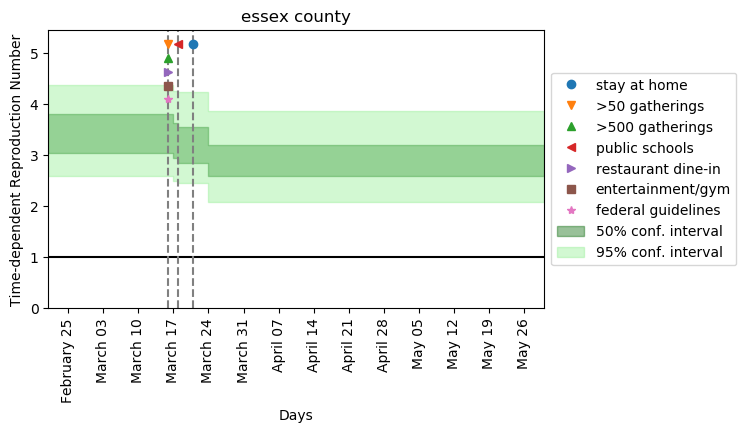
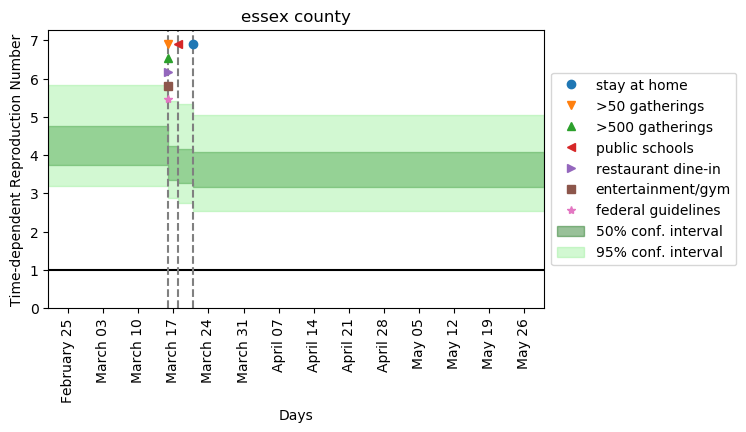
updated start dates and fips list; uploaded new plots where interventions are aligned

diff --git a/scripts/plot_rt.py b/scripts/plot_rt.py
@@ -199,6 +199,7 @@ def get_interventions_europe(interventions_file):
     return countries, date_cols, mod_interventions
 
 
+# copied from data_parser
 def get_interventions_US(interventions_file, num_counties=100):
 
     interventions = pd.read_csv(interventions_file)
@@ -210,8 +211,9 @@ def get_interventions_US(interventions_file, num_counties=100):
     for col in int_cols: ### convert date from given format
         interventions[col] = interventions[col].apply(lambda x: dt.date.fromordinal(int(x)))
 
-    fips = [36061, 36119, 36059, 36103, 17031, 26163, 36087, 34003, 53033, 6037, 22071, 36071, 9001, 34013, 12086,
-            26125, 25017, 34017, 25025, 34023]
+    # this needs to be updated if any changes are made to the data parser
+    fips = [36061, 36119, 36059, 36103, 17031, 26163, 6037, 34003, 36087, 53033, 22071, 34013, 12086, 9001, 26125,
+            34017, 36071, 42101, 34039, 25025]
 
     interventions_list = list(interventions.columns.values)[3:]
 
@@ -221,22 +223,24 @@ def get_interventions_US(interventions_file, num_counties=100):
 if __name__ == '__main__':
 
     ### EUROPE ###
-    # simulation_file = r'results\europe_summary.csv'
-    # interventions_file = r'data\europe_data\interventions.csv'
-    # country_numbers = np.arange(1, 12)
-    # start_dates = ['02-22-2020', '02-18-2020', '02-21-2020', '02-07-2020', '02-15-2020', '01-27-2020', '02-24-2020', '02-09-2020', '02-18-2020', '02-14-2020', '02-12-2020']
-    #
-    # for country, date in zip(country_numbers, start_dates):
-    #     plot_rt_europe(simulation_file, interventions_file, country, date, save_img=True)
+    simulation_file = r'results\europe_summary.csv'
+    interventions_file = r'data\europe_data\interventions.csv'
+    country_numbers = np.arange(1, 12)
+    start_dates = ['02-22-2020', '02-18-2020', '02-21-2020', '02-07-2020', '02-15-2020', '01-27-2020', '02-24-2020', '02-09-2020', '02-18-2020', '02-14-2020', '02-12-2020']
+
+    for country, date in zip(country_numbers, start_dates):
+        plot_rt_europe(simulation_file, interventions_file, country, date, save_img=True)
 
     ### USA ###
     simulation_file = r'results\US_summary.csv'
     interventions_file = r'data\us_data\interventions.csv'
     cases_file = r'data\us_data\infections_timeseries.csv'
     county_numbers = np.arange(1, 21)
-    start_dates = ['2-16-2020', '2-26-2020', '2-20-2020', '2-18-2020', '02-21-2020', '2-21-2020', '2-22-2020',
-                   '2-17-2020', '2-02-2020', '02-18-2020', '2-16-2020', '2-27-2020', '2-20-2020', '2-21-2020',
-                   '02-28-2020', '2-22-2020', '2-25-2020', '2-25-2020', '2-26-2020', '2-27-2020']
+
+    start_dates = ['2-16-2020', '2-27-2020', '2-20-2020', '2-18-2020', '2-21-2020', '2-22-2020',
+                   '2-18-2020', '2-17-2020', '2-22-2020', '2-02-2020', '2-16-2020', '2-21-2020',
+                   '3-01-2020', '2-20-2020', '2-23-2020', '2-26-2020', '2-28-2020', '2-28-2020',
+                   '2-29-2020', '2-26-2020']
 
     for county, date in zip(county_numbers, start_dates):
         plot_rt_US(simulation_file, interventions_file, county, date, save_img=True)
